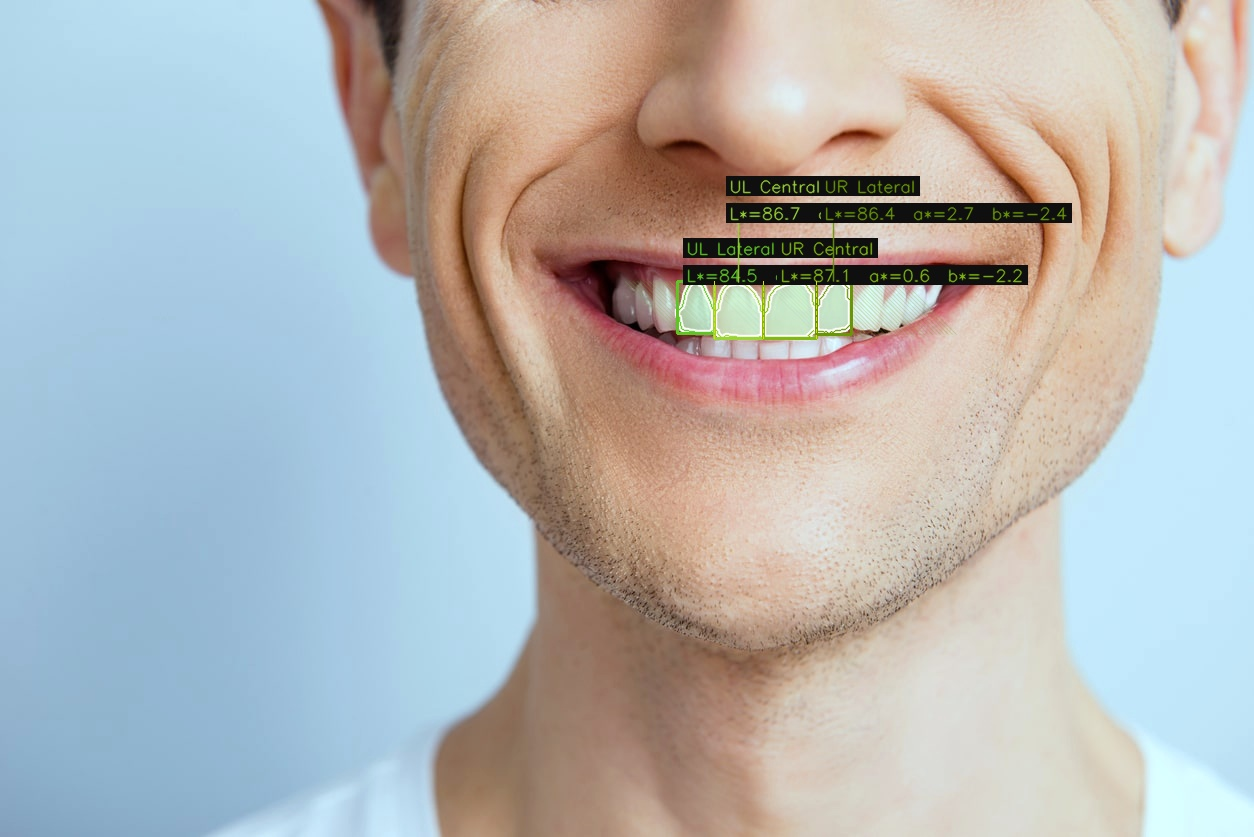
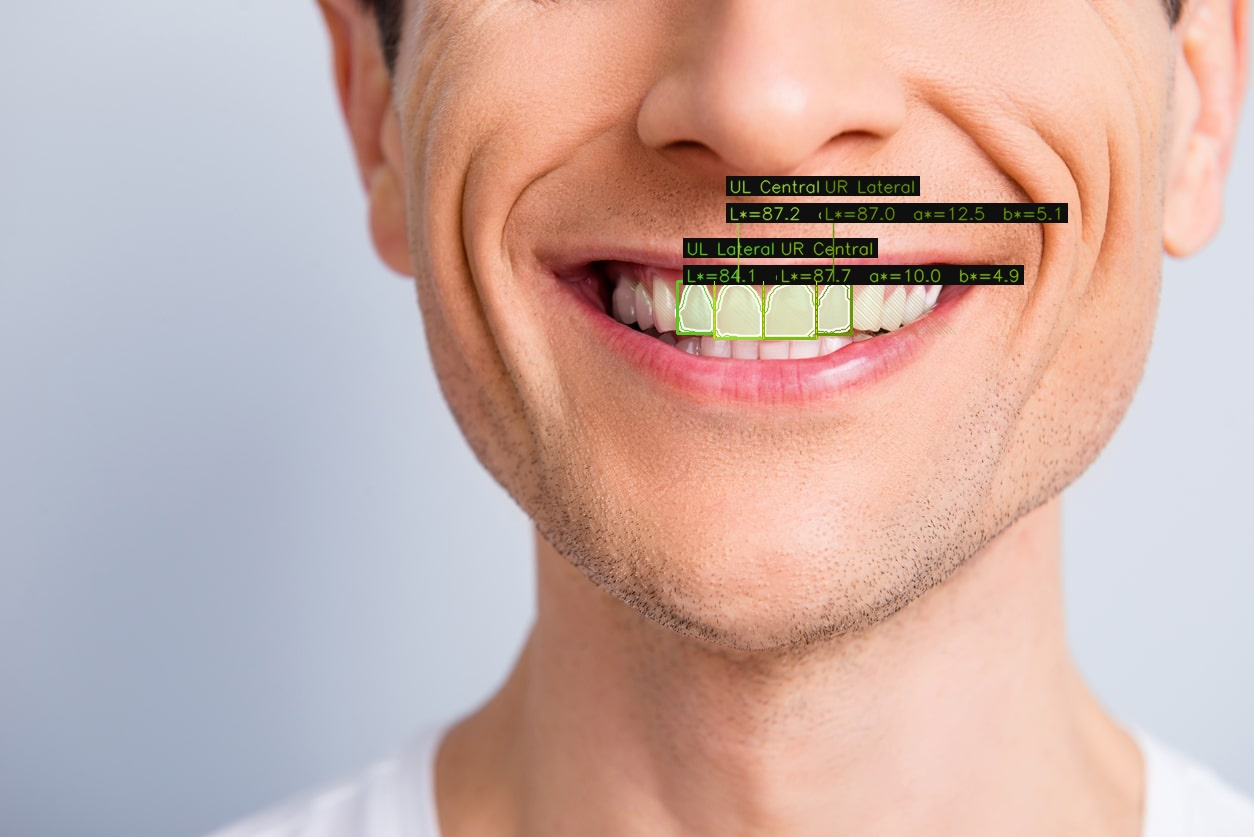
changed default color balance to original(unmodified) colors, modified related README parts

diff --git a/README.md b/README.md
@@ -69,23 +69,27 @@ For batch:
 python -m dental_color.cli images/ --batch --json summary.json
 ```
 
-### Disable white balance
+### Enable white balance
 
-By default, the script applies a gray‑world white balance to normalise lighting. Turn it off if you need original, unmodified colours:
+By default, the script uses the unmodified colours. Turn it on if you need a gray‑world white balance to normalise lighting:
 
 ```bash
-python -m dental_color.cli photo.jpg --no-white-balance
+python -m dental_color.cli photo.jpg --white-balance
 ```
+<div align="center">
+  <img src="images/result_01.jpg" width="45%" alt="Input photo"/>
+  <img src="images/result_01_white_balanced.jpg" width="45%" alt="Annotated output"/>
+</div>
 
 ## Command‑line options
 
-| Argument | Effect |
-|----------|--------|
-| `input` | Image file or directory (required) |
+| Argument | Effect                                          |
+|----------|-------------------------------------------------|
+| `input` | Image file or directory (required)              |
 | `--output` | Output image file (single) or directory (batch) |
-| `--no-white-balance` | Skip automatic white balance |
-| `--json` | Save detailed results as JSON |
-| `--batch` | Process all images in the input directory |
+| `--white-balance` | apply white balance                             |
+| `--json` | Save detailed results as JSON                   |
+| `--batch` | Process all images in the input directory       |
 
 ## Output example
 